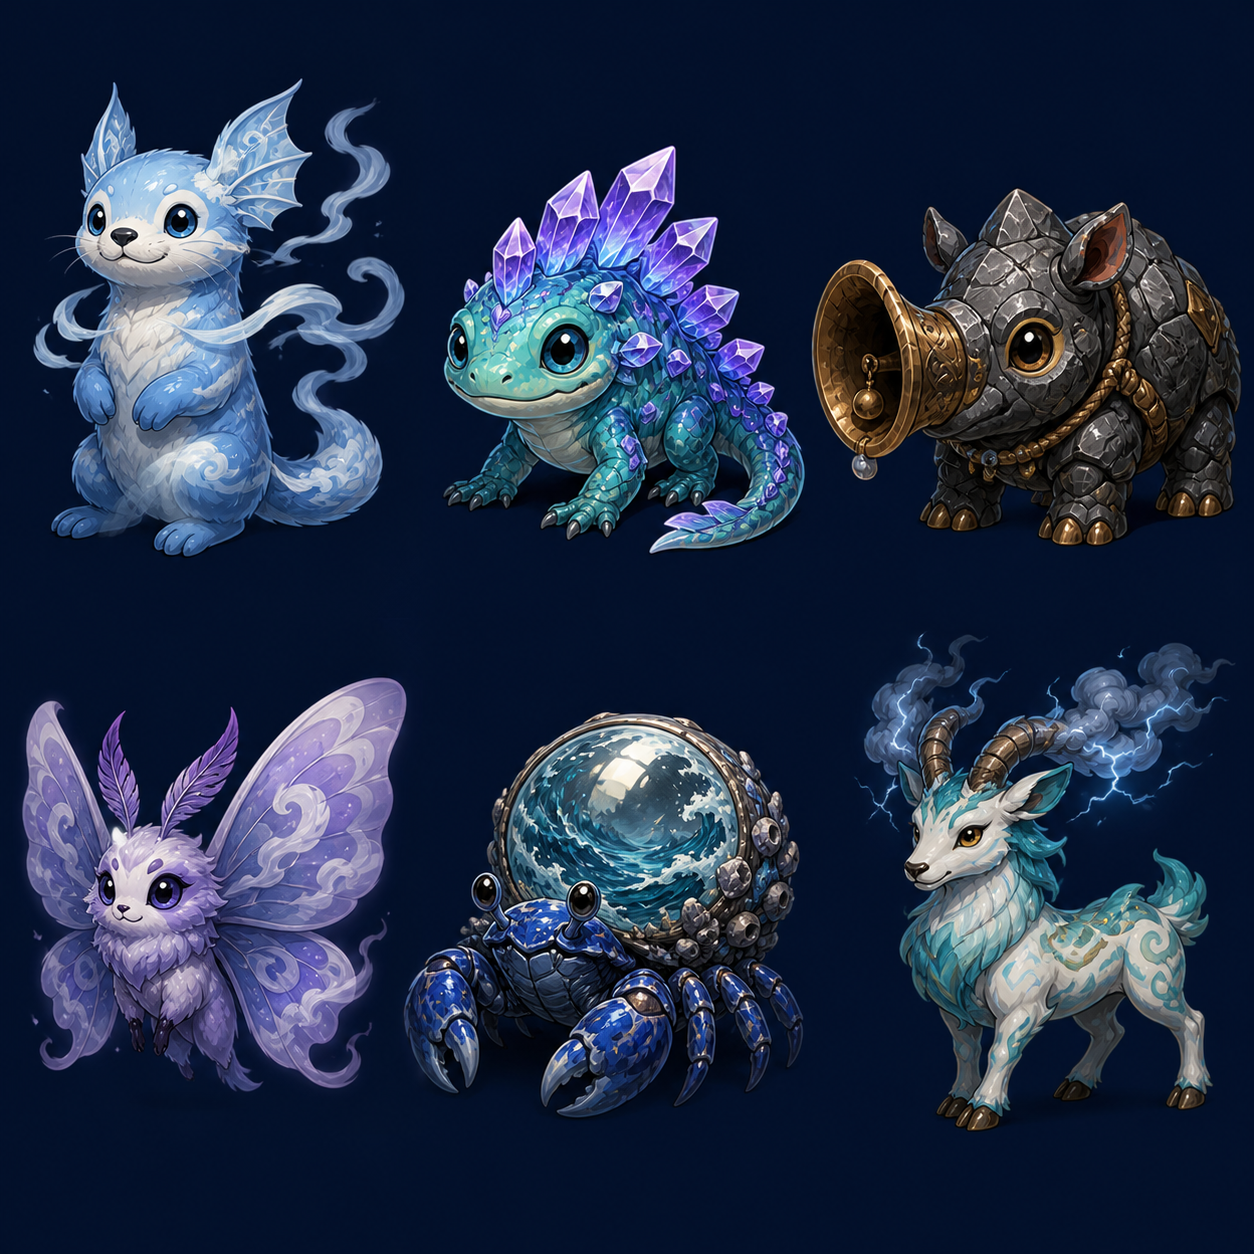
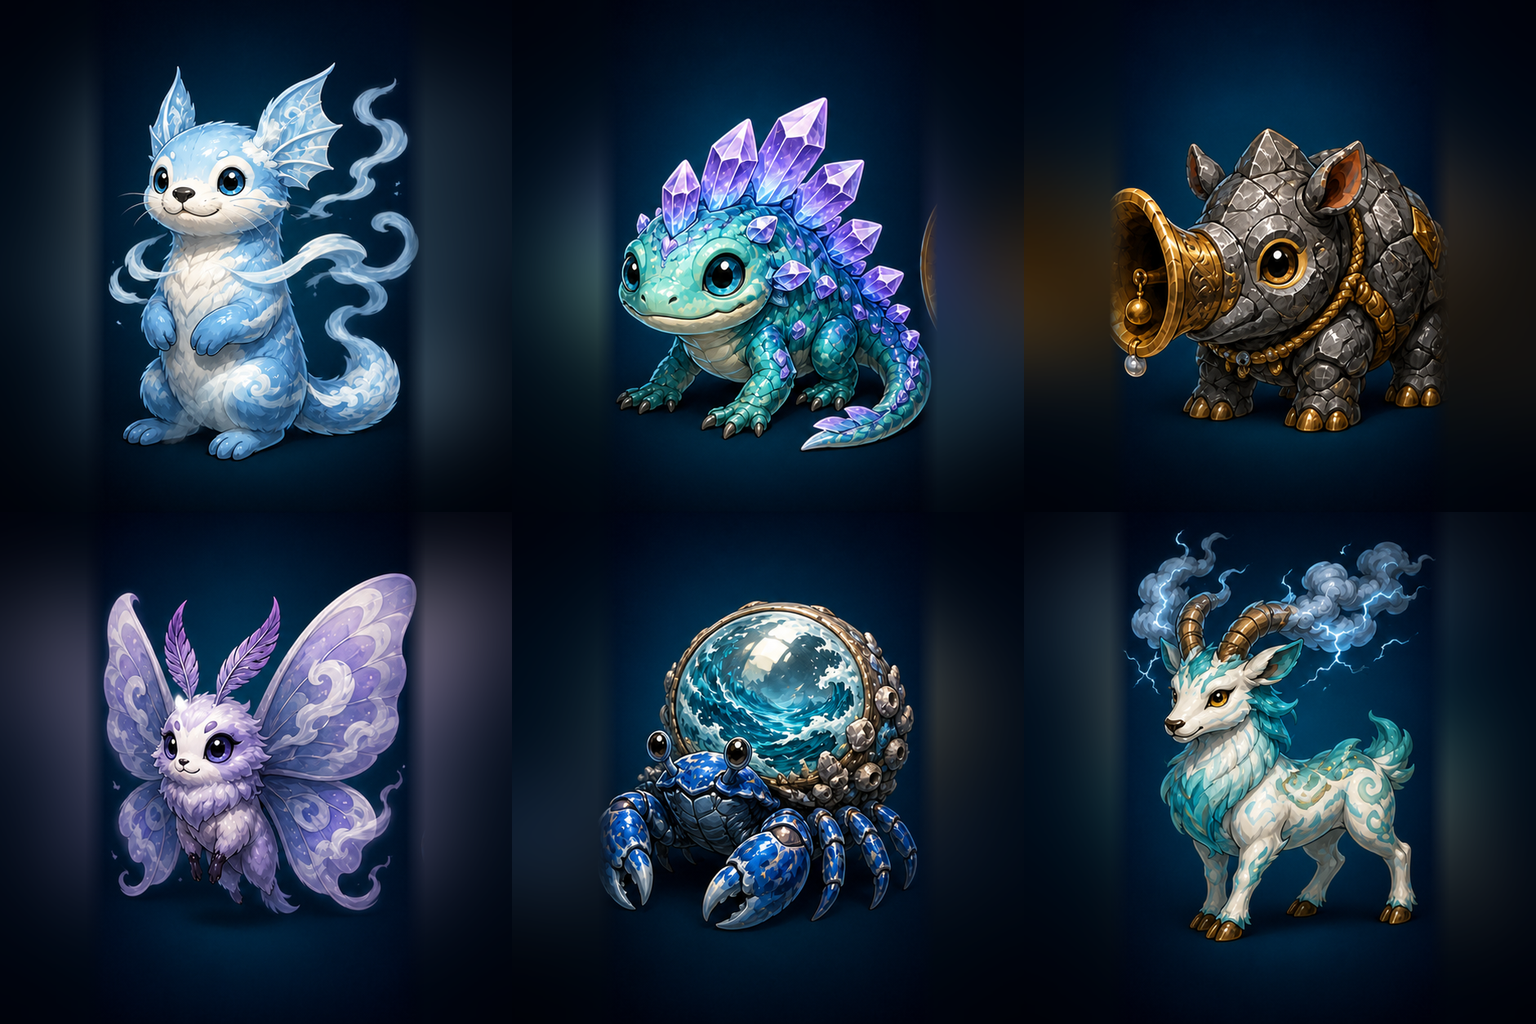
美术：重绘地图瓦片与幻兽头像

diff --git a/src/scenes/WorldScene.ts b/src/scenes/WorldScene.ts
@@ -76,6 +76,11 @@ const REGION_LABELS: Record<WorldRegion, string> = {
   "cloudridge-highlands": "云脊高地",
 };
 
+const REGION_TILE_ASSETS: Record<WorldRegion, string> = {
+  frontier: "/assets/world-tiles-frontier.png",
+  "cloudridge-highlands": "/assets/world-tiles-cloudridge-highlands.png",
+};
+
 export class WorldScene extends Phaser.Scene {
   private player!: Phaser.Physics.Arcade.Sprite;
   private layer!: Phaser.Tilemaps.TilemapLayer;
@@ -109,6 +114,10 @@ export class WorldScene extends Phaser.Scene {
 
   preload() {
     preloadUiAssets(this);
+    for (const [region, path] of Object.entries(REGION_TILE_ASSETS)) {
+      const textureKey = `world-tiles-${region}`;
+      if (!this.textures.exists(textureKey)) this.load.image(textureKey, path);
+    }
   }
 
   create(data: WorldSceneData = {}) {
@@ -225,22 +234,6 @@ export class WorldScene extends Phaser.Scene {
   }
 
   private createTextures() {
-    const textureKey = `world-tiles-${this.region}`;
-    if (!this.textures.exists(textureKey)) {
-      const graphics = this.make.graphics({ x: 0, y: 0 });
-      const palette =
-        this.region === HIGHLAND_REGION
-          ? [0x426a70, 0x30384f, 0x668c91, 0x8c96aa]
-          : [0x315d3c, 0x263447, 0x477c4d, 0x8a795e];
-      palette.forEach((color, index) => {
-        graphics.fillStyle(color);
-        graphics.fillRect(index * TILE_SIZE, 0, TILE_SIZE, TILE_SIZE);
-        graphics.lineStyle(1, 0x1f2a37, 0.25);
-        graphics.strokeRect(index * TILE_SIZE, 0, TILE_SIZE, TILE_SIZE);
-      });
-      graphics.generateTexture(textureKey, TILE_SIZE * 4, TILE_SIZE);
-      graphics.destroy();
-    }
     if (!this.textures.exists("world-player")) {
       const graphics = this.make.graphics({ x: 0, y: 0 });
       graphics.fillStyle(0xffd54f);

diff --git a/src/ui/palPortraits.ts b/src/ui/palPortraits.ts
@@ -8,14 +8,14 @@ const HIGHLAND_PORTRAIT_IDS = [34, 35, 36, 37, 38, 39];
 export function preloadPalPortraits(scene: Phaser.Scene) {
   if (!scene.textures.exists(PORTRAIT_KEY)) {
     scene.load.spritesheet(PORTRAIT_KEY, "/assets/pal-portraits.png", {
-      frameWidth: 362,
-      frameHeight: 362,
+      frameWidth: 384,
+      frameHeight: 384,
     });
   }
   if (!scene.textures.exists(HIGHLAND_PORTRAIT_KEY)) {
     scene.load.spritesheet(HIGHLAND_PORTRAIT_KEY, "/assets/pal-portraits-highland.png", {
-      frameWidth: 418,
-      frameHeight: 627,
+      frameWidth: 512,
+      frameHeight: 512,
     });
   }
 }
